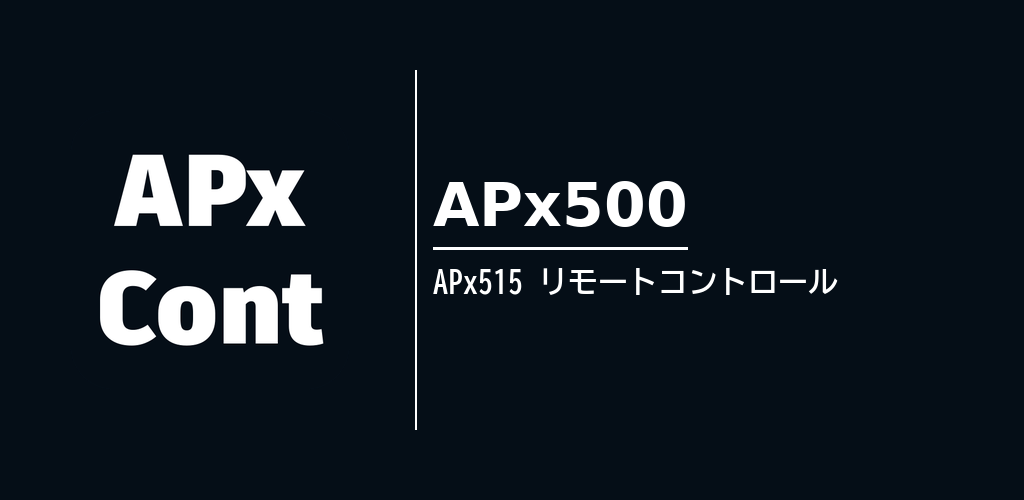
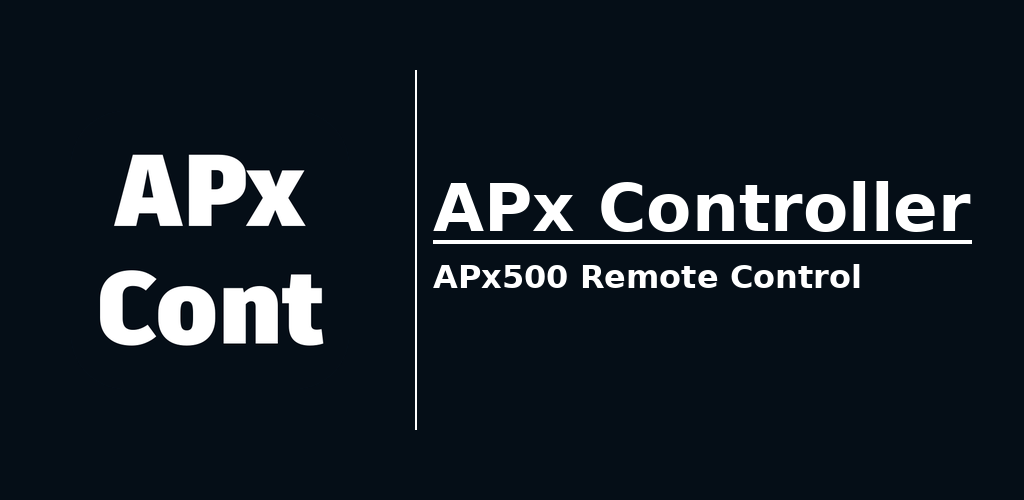
feat: improve anchor navigation feedback and update APx Controller page
- Add target-marker accent bar animation for anchor navigation
- Fix contact link click areas to match icon+text width
- Support multiple changelog update entries via front matter
- Mark APx Controller as released, refresh feature graphic, add privacy policy link and 2026-06-15 update notes

Changed region(s): [[0.4062, 0.36, 0.9688, 0.6]]

diff --git a/assets/css/style.css b/assets/css/style.css
@@ -12,6 +12,10 @@
   padding: 0;
 }
 
+html {
+  scroll-behavior: smooth;
+}
+
 body {
   background: var(--bg);
   color: var(--text);
@@ -57,12 +61,35 @@ a {
 }
 
 .section {
+  position: relative;
   padding: 32px 0;
   border-top: 1px solid var(--border);
+  scroll-margin-top: 64px;
 }
 
 .section:first-of-type {
   border-top: none;
+}
+
+.section:target::before {
+  content: "";
+  position: absolute;
+  top: 0;
+  bottom: 0;
+  left: -16px;
+  width: 4px;
+  background: var(--accent);
+  box-shadow: 0 0 8px var(--accent);
+  animation: target-marker 2.4s ease-out forwards;
+}
+
+@keyframes target-marker {
+  0%, 60% {
+    opacity: 1;
+  }
+  100% {
+    opacity: 0;
+  }
 }
 
 .section h2 {
@@ -338,6 +365,11 @@ a {
   font-weight: bold;
 }
 
+.timeline-list {
+  margin: 8px 0 0;
+  padding-left: 20px;
+}
+
 .badge {
   font-size: 11px;
   padding: 1px 6px;
@@ -387,6 +419,7 @@ a {
 .contact-link {
   display: inline-flex;
   align-items: center;
+  align-self: flex-start;
   gap: 12px;
   color: var(--text);
   text-decoration: none;

diff --git a/_layouts/app.html b/_layouts/app.html
@@ -51,6 +51,24 @@ layout: default
 
 <section class="section">
   <img class="section-heading" src="{{ '/assets/images/brand/headings/changelog.png' | relative_url }}" alt="CHANGELOG">
+  {% if page.updates or page.release_date %}
+  {% for update in page.updates %}
+  <div class="timeline-item">
+    <div class="timeline-marker">
+      <div class="timeline-dot"></div>
+      {% unless forloop.last and page.release_date == nil %}<div class="timeline-line"></div>{% endunless %}
+    </div>
+    <div class="timeline-content">
+      <div class="timeline-date">{{ update.date }}</div>
+      <div class="timeline-title">アップデート</div>
+      <ul class="timeline-list">
+        {% for item in update.items %}
+        <li>{{ item }}</li>
+        {% endfor %}
+      </ul>
+    </div>
+  </div>
+  {% endfor %}
   {% if page.release_date %}
   <div class="timeline-item">
     <div class="timeline-marker">
@@ -61,6 +79,7 @@ layout: default
       <div class="timeline-title">{% if page.status == 'internal' %}配布開始{% else %}リリース{% endif %}</div>
     </div>
   </div>
+  {% endif %}
   {% else %}
   <p>準備中です。</p>
   {% endif %}

diff --git a/_user_scripts/nav-indicator-snippet.md b/_user_scripts/nav-indicator-snippet.md
@@ -1,0 +1,84 @@
+# ナビ・スクロールインジケーター（保留中）
+
+スクロール位置に応じてナビの現在地リンク（HOME/ABOUT/PRODUCTS/CONTACT）の下に
+アクセントカラーのバーが滑らかに移動する機能。2026-06-15に実装したが、
+今回は不要として無効化。メインページが長くなって再度欲しくなったら以下を復元する。
+
+## `_includes/nav.html`
+
+`<ul class="nav-links">...</ul>` の直後に追加:
+
+```html
+<span class="nav-indicator"></span>
+```
+
+## `assets/css/style.css`
+
+`.nav-inner` に `position: relative;` を追加し、以下を追加:
+
+```css
+.nav-indicator {
+  position: absolute;
+  bottom: -1px;
+  height: 2px;
+  background: var(--accent);
+  opacity: 0;
+  transition: left 0.3s ease, width 0.3s ease, opacity 0.3s ease;
+}
+```
+
+`@media (max-width: 900px)` 内に追加:
+
+```css
+.nav-indicator {
+  display: none;
+}
+```
+
+## `assets/js/nav.js`
+
+`DOMContentLoaded` 内、ライトボックス処理の前に追加:
+
+```js
+var indicator = document.querySelector(".nav-indicator");
+var navInner = document.querySelector(".nav-inner");
+if (indicator && navInner) {
+	var sectionLinks = {};
+	document.querySelectorAll(".nav-links > li > a").forEach((a) => {
+		var hash = a.getAttribute("href").split("#")[1];
+		if (hash) sectionLinks[hash] = a;
+	});
+
+	var moveIndicator = (link) => {
+		var linkRect = link.getBoundingClientRect();
+		var innerRect = navInner.getBoundingClientRect();
+		indicator.style.left = linkRect.left - innerRect.left + "px";
+		indicator.style.width = linkRect.width + "px";
+		indicator.style.opacity = "1";
+	};
+
+	var sections = Object.keys(sectionLinks)
+		.map((id) => document.getElementById(id))
+		.filter(Boolean);
+
+	if (sections.length) {
+		var observer = new IntersectionObserver(
+			(entries) => {
+				entries.forEach((entry) => {
+					if (entry.isIntersecting) {
+						moveIndicator(sectionLinks[entry.target.id]);
+					}
+				});
+			},
+			{ rootMargin: "-50% 0px -50% 0px" },
+		);
+
+		sections.forEach((section) => observer.observe(section));
+
+		window.addEventListener("resize", () => {
+			var current = window.location.hash.slice(1) || sections[0].id;
+			if (sectionLinks[current]) moveIndicator(sectionLinks[current]);
+		});
+	}
+}
+```

diff --git a/_apps/apx-controller.md b/_apps/apx-controller.md
@@ -1,13 +1,19 @@
 ---
 name: APx Controller
 order: 2
-status: internal
+status: released
 release_date: "2026-06-03"
+updates:
+  - date: "2026-06-15"
+    items:
+      - UI修正
+      - Zoom機能追加
 tagline: Audio Precision APx500 リモートコントロールGUI（Windows）
 icon: /assets/images/apx-controller/icon.png
 feature_graphic: /assets/images/apx-controller/feature.png
 cta_label: ダウンロード
 cta_url: https://github.com/NARUKAMI-AKUT/APx500-Controller
+privacy_url: https://narukami-akut.github.io/APx-Controller-site/privacy_policy.html
 ---
 
 Audio Precision APx500 をリモートで操作するためのWindows向けGUIツールです。<br>